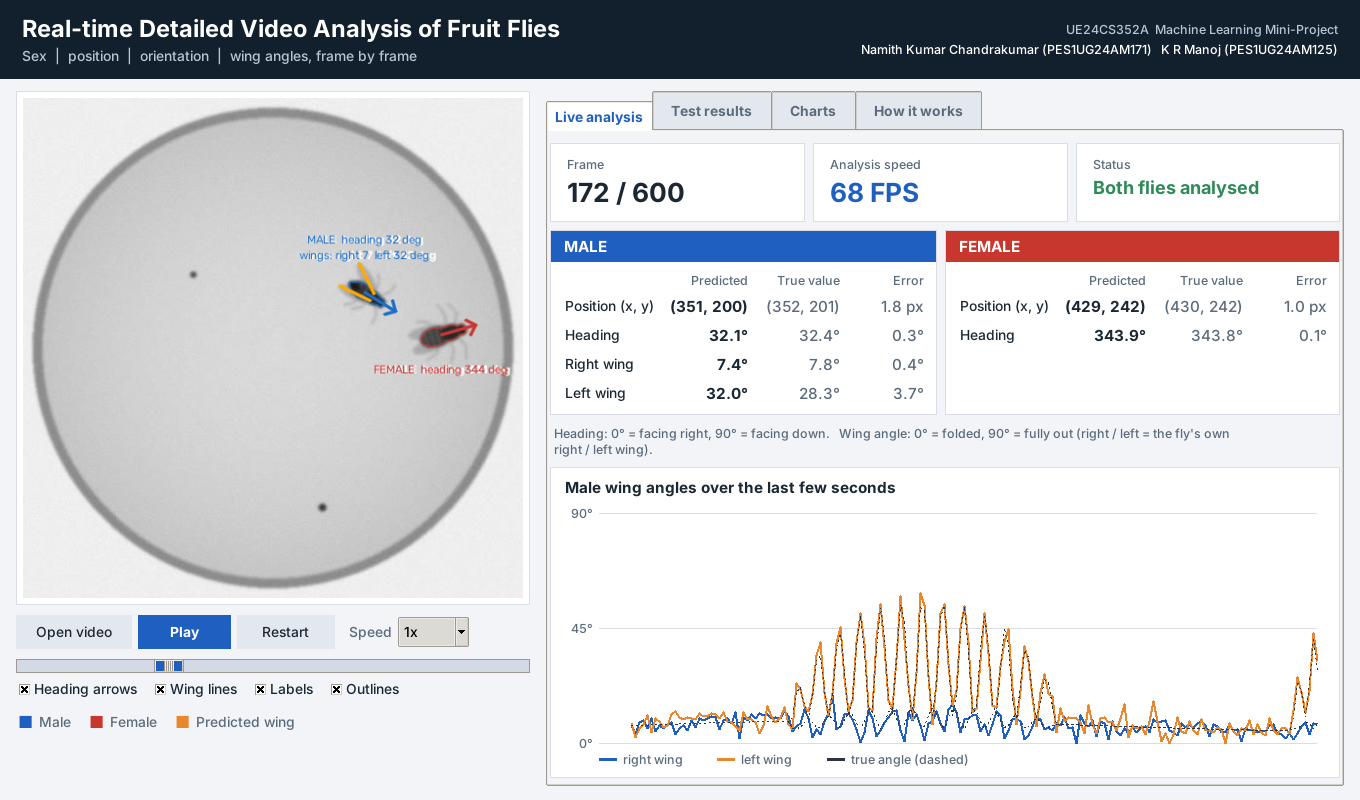
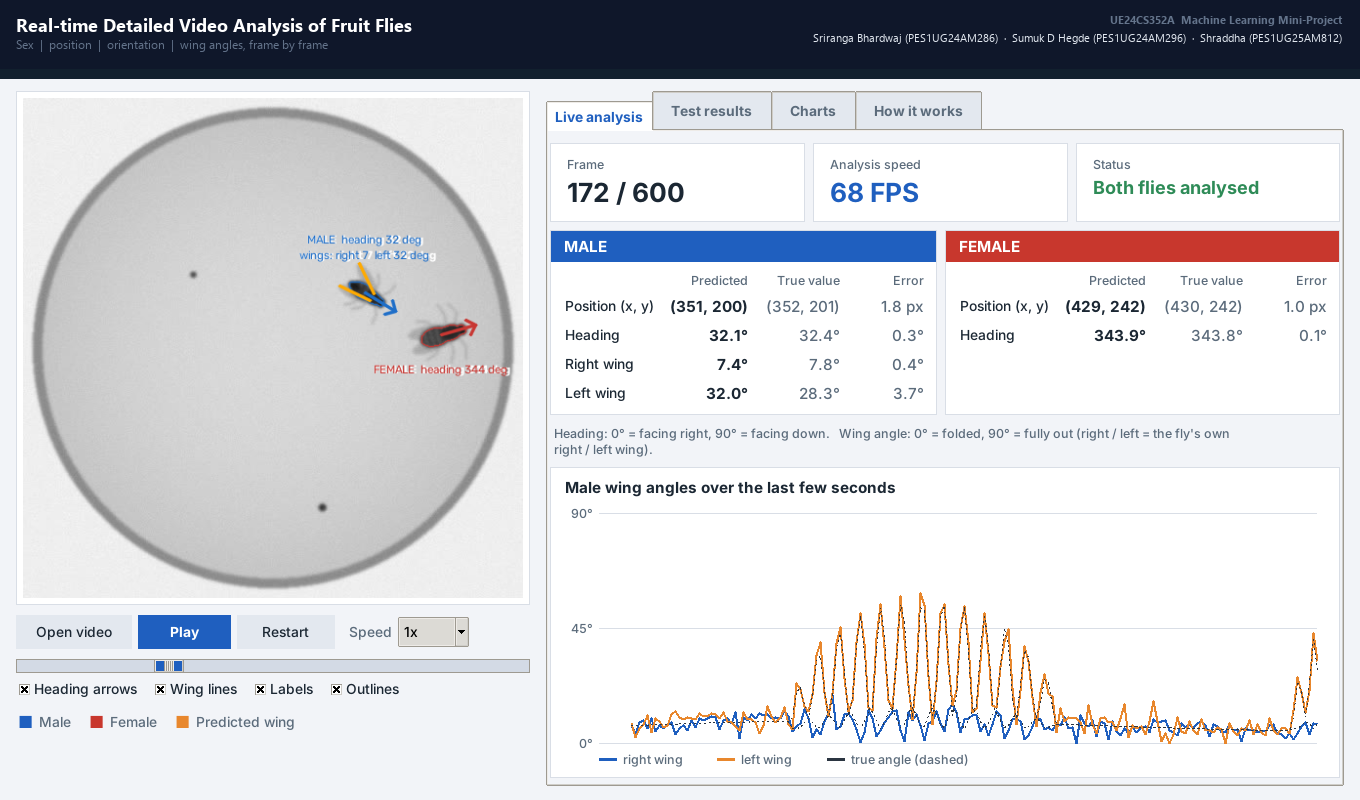
Fix screenshots: replace wrong team names with correct team (Sriranga/Sumuk/Shraddha); update CONTRIBUTIONS.md with full contributions; fix Sumuk SRN typo (AM295->AM296)

Changed region(s): [[0.0, 0.0, 0.4324, 0.0938], [0.6176, 0.0, 0.9882, 0.0938]]

diff --git a/gui.py b/gui.py
@@ -341,7 +341,7 @@ class App:
                               bg=NAVY_HEADER, fg=NAVY_SUB, font=font(9, True))
         course_lbl.pack(anchor="e")
 
-        team_str = "Sriranga Bhardwaj (PES1UG24AM286)  ·  Sumuk D Hegde (PES1UG24AM295)  ·  Shraddha (PES1UG25AM812)"
+        team_str = "Sriranga Bhardwaj (PES1UG24AM286)  ·  Sumuk D Hegde (PES1UG24AM296)  ·  Shraddha (PES1UG25AM812)"
         team_lbl = tk.Label(right, text=team_str, bg=NAVY_HEADER, fg=NAVY_LIGHT, font=font(9))
         team_lbl.pack(anchor="e", pady=(2, 0))
 

diff --git a/CONTRIBUTIONS.md b/CONTRIBUTIONS.md
@@ -1,21 +1,43 @@
-# Team contributions
-
-> Fill this in before submitting: write who did what, and make sure all members have commits
-> in the Git history (individual contribution is part of the evaluation).
-
-| Area | Done by |
-|---|---|
-| Problem understanding, reading the reference paper | |
-| Data simulator (`src/synth.py`) and dataset generation | |
-| Feature extraction (`src/features.py`) | |
-| Stage 1-2 models (fly counting, sex identification) | |
-| Stage 3-4 models (orientation, wing angles) | |
-| Evaluation and figures | |
-| Demo and GUI (`demo.py`, `gui.py`) | |
-| Write-up and slide deck | |
+# Team Contributions
 
 | Member | SRN |
 |---|---|
 | Sriranga Bhardwaj | PES1UG24AM286 |
 | Sumuk D Hegde | PES1UG24AM296 |
 | Shraddha | PES1UG25AM812 |
+
+---
+
+## Contributions by Area
+
+| Area | Done by |
+|---|---|
+| Problem understanding, reading the reference paper (S. Herbst, Stanford CS229 2018) | Sriranga Bhardwaj, Sumuk D Hegde, Shraddha |
+| Data simulator (`src/synth.py`) — fly renderer, courtship trajectories, noise/blur/debris | Sumuk D Hegde |
+| Dataset generation script (`generate_dataset.py`) — 900 labelled frames + 600-frame test video | Sumuk D Hegde |
+| Feature extraction (`src/features.py`) — thresholding, contours, image moments, HOG, rotation | Sriranga Bhardwaj |
+| Stage 1 model — fly counting via decision tree on blob area | Sriranga Bhardwaj |
+| Stage 2 model — sex identification via logistic regression on area & aspect ratio | Sriranga Bhardwaj |
+| Stage 3 model — orientation (HOG → PCA → logistic regression for head vs. tail) | Sumuk D Hegde |
+| Stage 4 model — wing-angle regression (HOG → PCA → linear regression, mirrored) | Shraddha |
+| Pipeline integration (`src/pipeline.py`) — `FlyPipeline.process()` end-to-end | Sriranga Bhardwaj |
+| Model training & evaluation (`train_evaluate.py`, `src/evaluation.py`) | Sumuk D Hegde, Shraddha |
+| PCA ablation study and performance figures (`make_figures.py`) | Shraddha |
+| Demo script (`demo.py`) — CLI video annotator, plain-English report | Sriranga Bhardwaj |
+| Graphical interface (`gui.py`) — live player, analysis tabs, wing-angle plot | Sriranga Bhardwaj, Sumuk D Hegde |
+| Visualisation overlay (`src/visualize.py`) — outlines, arrows, wing lines | Shraddha |
+| PDF write-up generation (`make_report.py`, `Fruit_Fly_Video_Analysis_Writeup.pdf`) | Shraddha, Sumuk D Hegde |
+| README documentation and repo setup | Sriranga Bhardwaj |
+
+---
+
+## Individual Summaries
+
+**Sriranga Bhardwaj (PES1UG24AM286)**
+Led the overall pipeline design and integration. Implemented feature extraction (`src/features.py`), Stages 1 and 2 (fly counting and sex identification), the end-to-end `FlyPipeline` class, the CLI demo script, the GUI, and project documentation.
+
+**Sumuk D Hegde (PES1UG24AM296)**
+Built the fly simulator and data generation pipeline (`src/synth.py`, `generate_dataset.py`), implemented Stage 3 (orientation model using HOG + PCA + logistic regression), contributed to the GUI and evaluation pipeline, and co-authored the write-up.
+
+**Shraddha (PES1UG25AM812)**
+Implemented Stage 4 (wing-angle estimation using HOG + PCA + linear regression), the visualisation overlay (`src/visualize.py`), the PCA ablation study and result figures, and led the PDF write-up (`make_report.py`).
